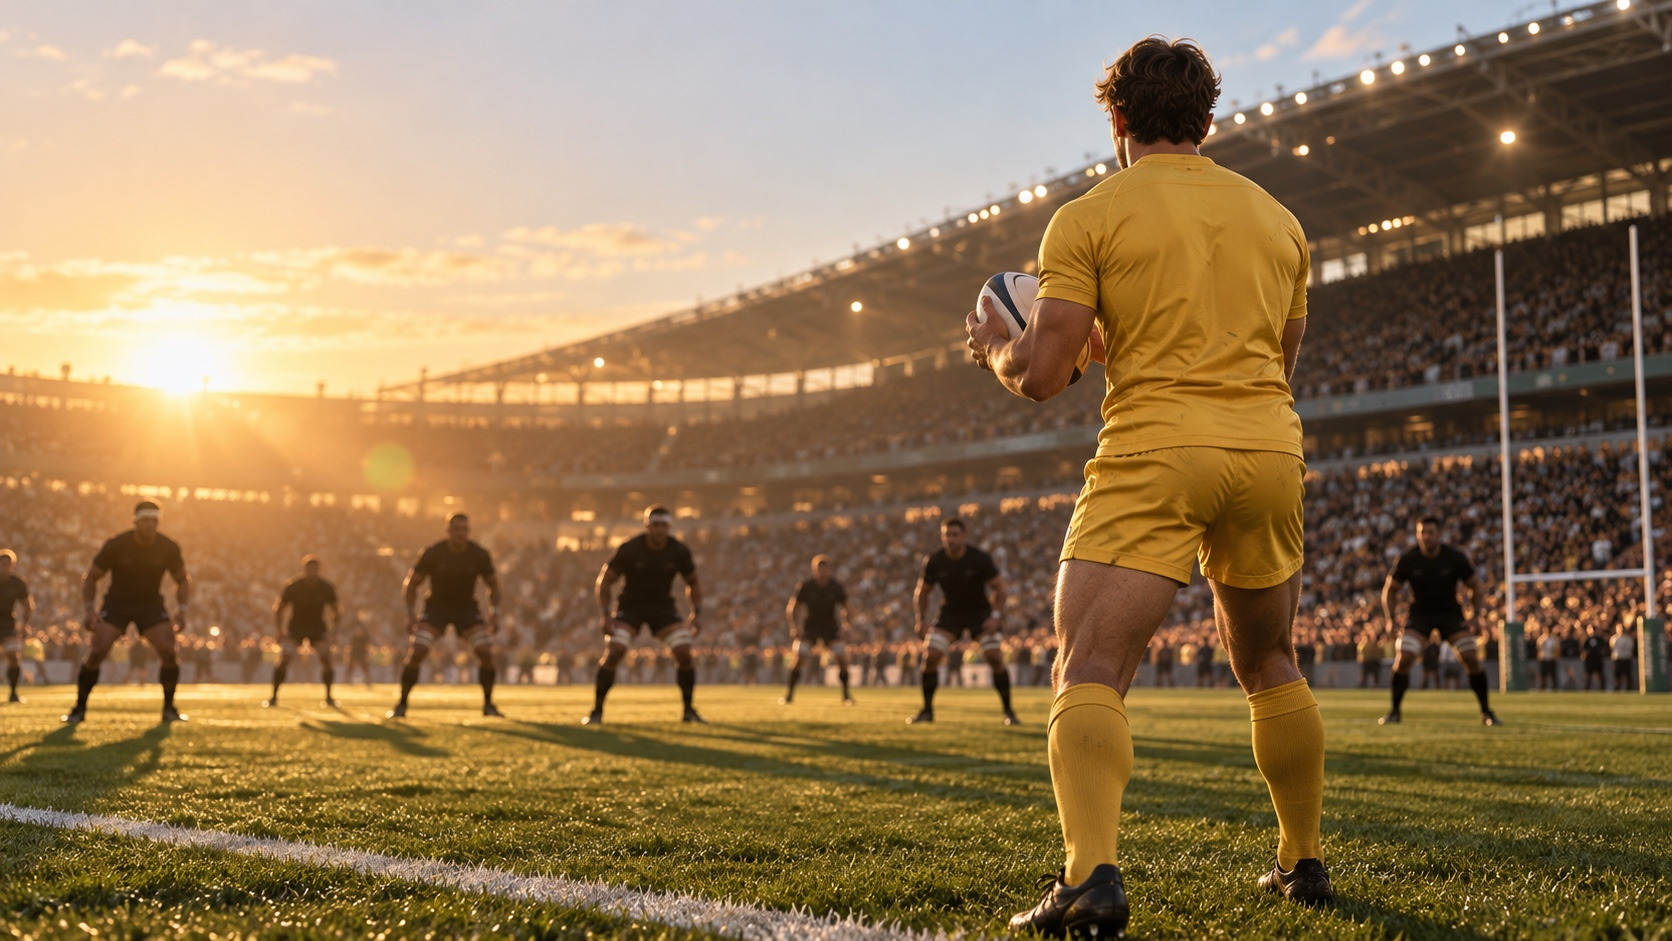
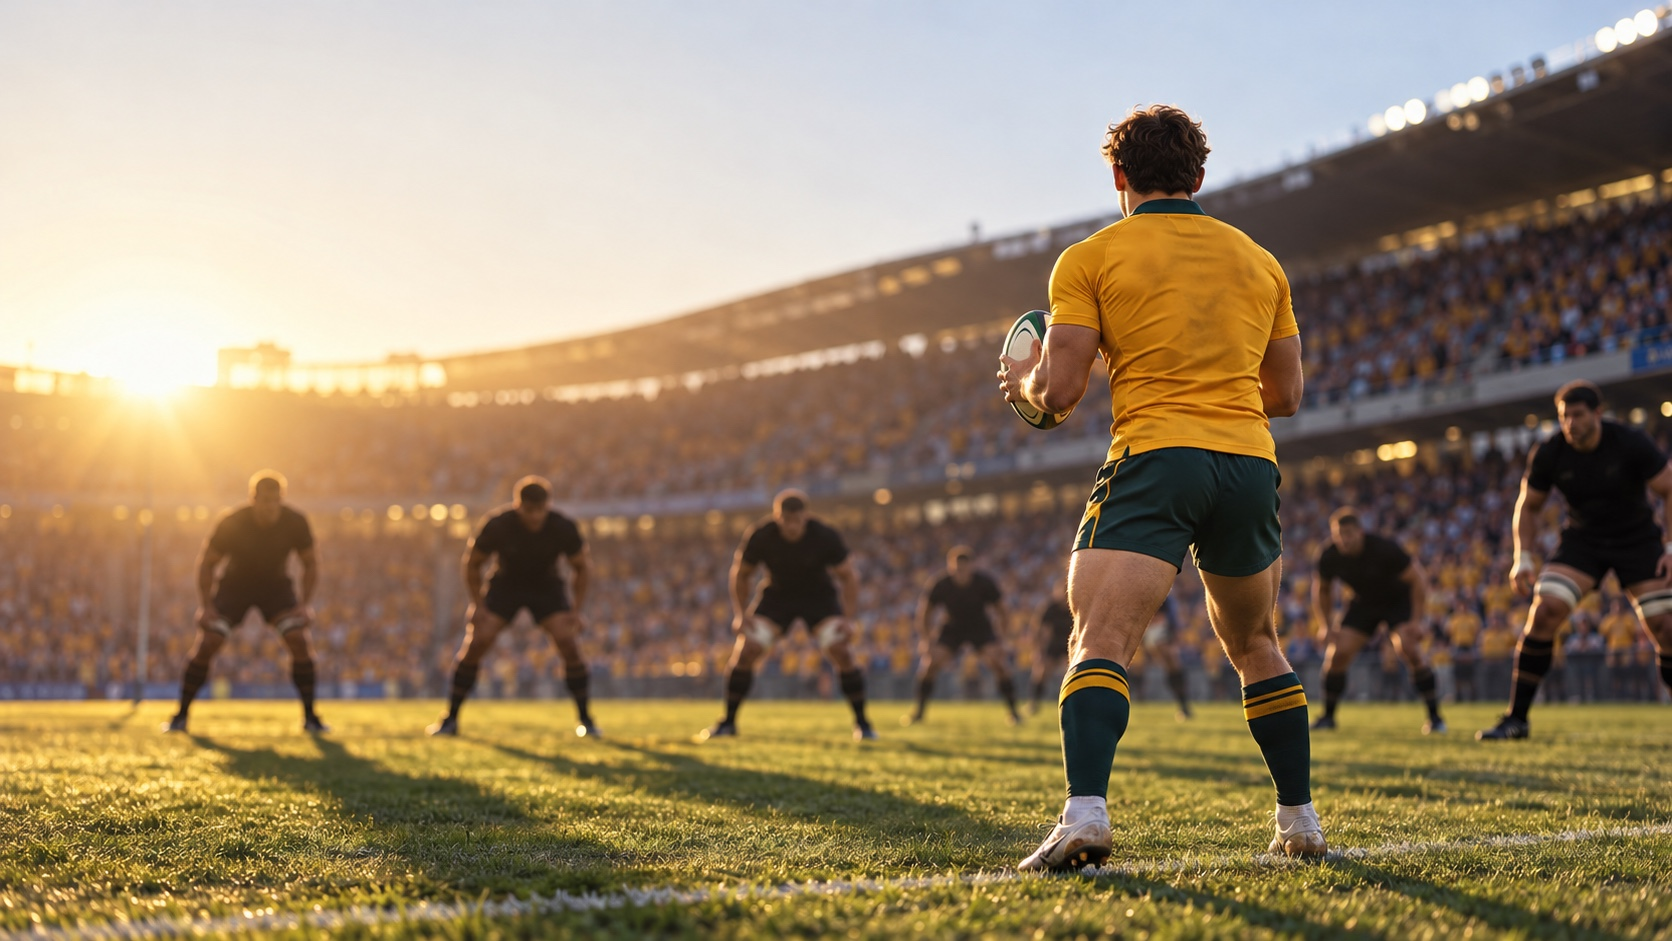
docs: replace Bledisloe 10/17 preview card background with gold-green kit

diff --git a/docs/notes/assets/2026-10-17-bledisloe-preview-card.html b/docs/notes/assets/2026-10-17-bledisloe-preview-card.html
@@ -5,7 +5,7 @@
 *{margin:0;box-sizing:border-box}
 html,body{width:1200px;height:675px;overflow:hidden;background:#111}
 .card{position:relative;width:1200px;height:675px;overflow:hidden;font-family:"Noto Sans JP",sans-serif;color:var(--ink)}
-.card::before{content:"";position:absolute;inset:0;background:url(2026-10-17-bledisloe-preview-bg.jpg) 50% 60%/cover no-repeat;filter:hue-rotate(-10deg) saturate(1.25)}
+.card::before{content:"";position:absolute;inset:0;background:url(2026-10-17-bledisloe-preview-bg.jpg) 50% 60%/cover no-repeat}
 .card::after{content:"";position:absolute;inset:0;background:linear-gradient(180deg,rgba(10,12,16,0) 38%,rgba(10,12,16,.65) 55%,rgba(10,12,16,.92) 100%)}
 .body{position:absolute;left:64px;right:64px;bottom:52px;z-index:1}
 .eyebrow{font-family:"Outfit",sans-serif;font-weight:700;letter-spacing:.18em;font-size:18px;color:var(--gold)}
